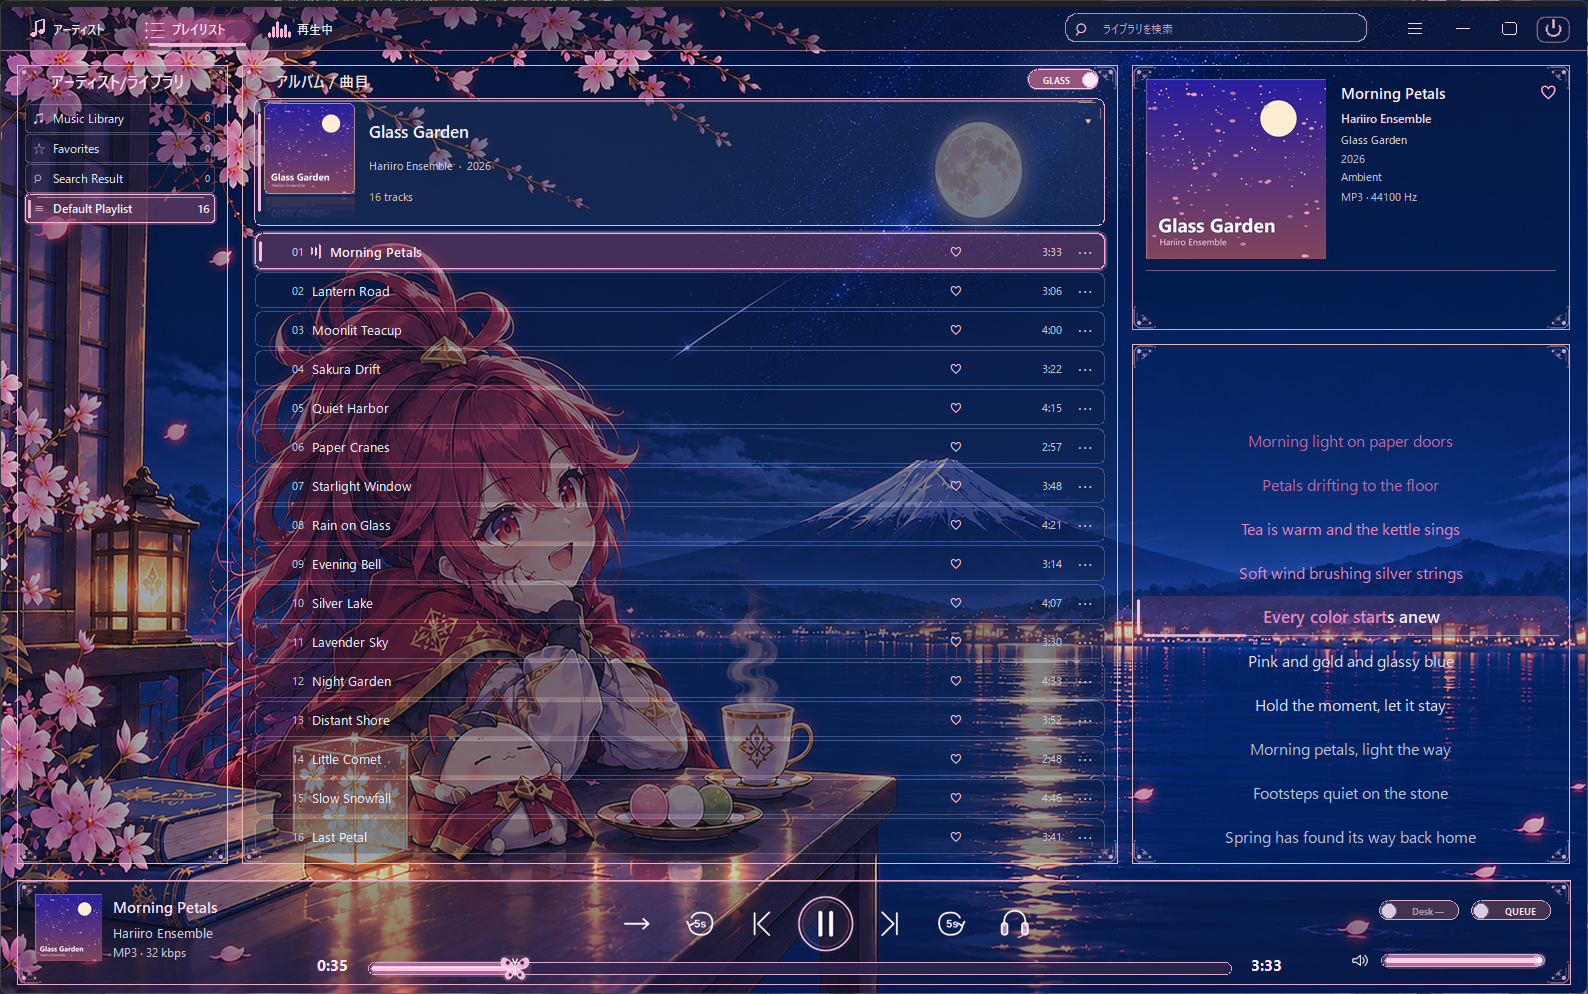
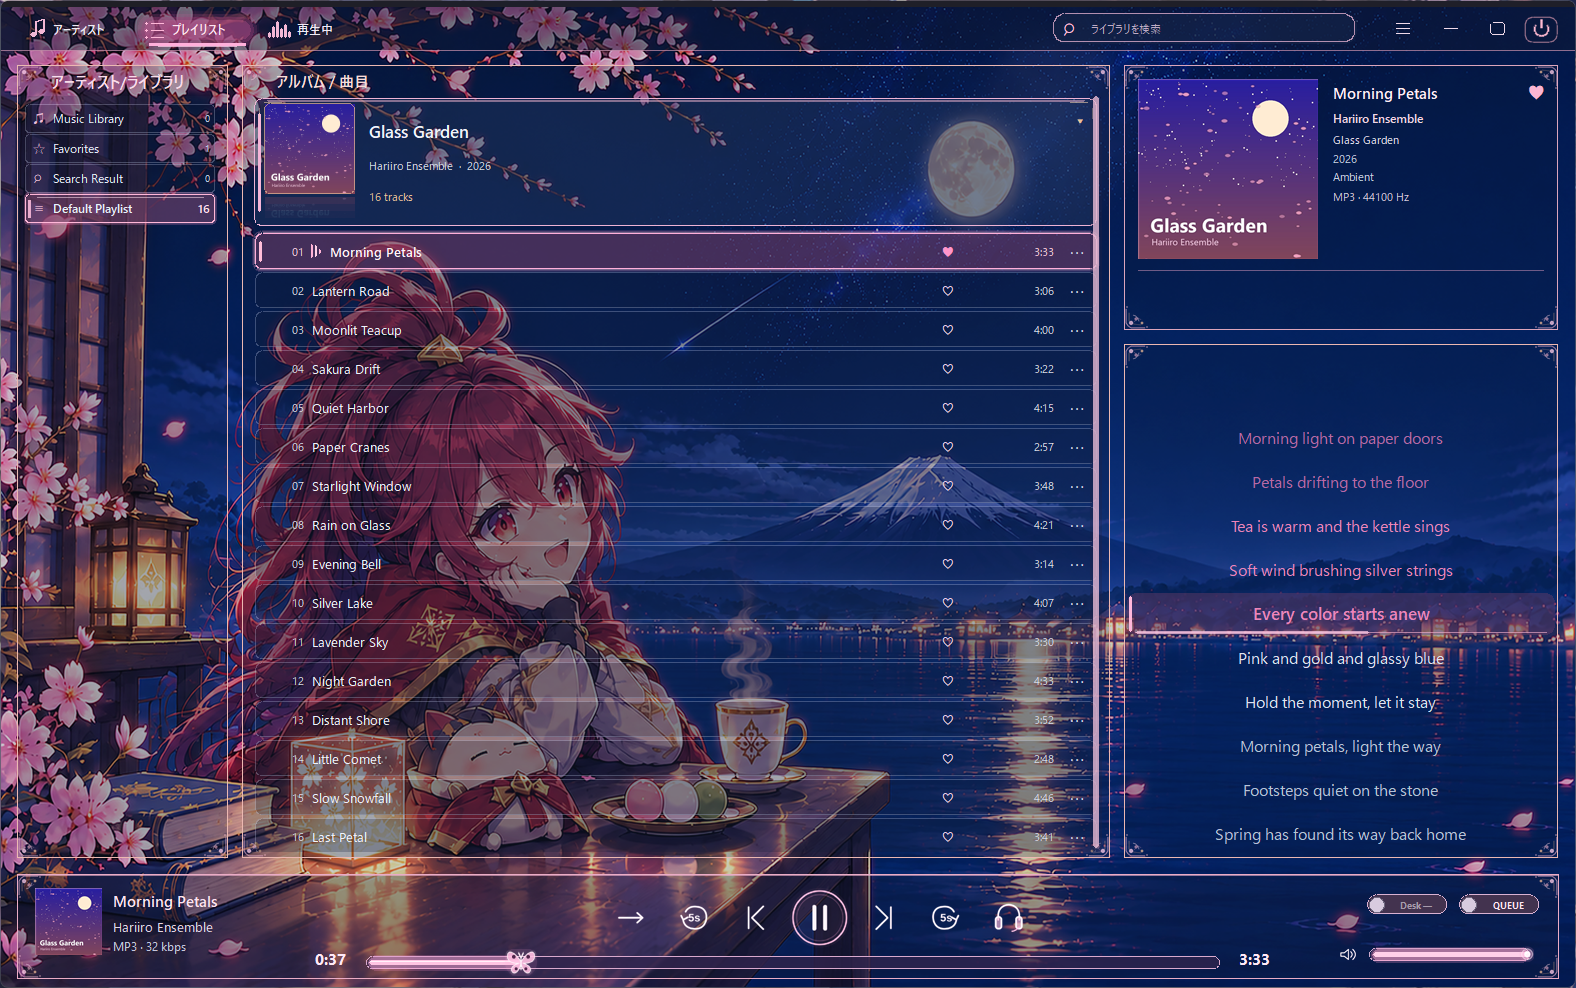
New screenshots: dark now playing, light interface, mini player
The old pictures still showed the removed GLASS / NATIVE switch and only
the dark interface. Same fictional sample album.

diff --git a/README.md b/README.md
@@ -10,8 +10,8 @@ a wallpaper selector (`images/wallpapers/`) with a light or dark interface to ma
 (English, Español, Português, 简体中文, 繁體中文, 日本語, Français, Deutsch, Русский). New installs start in GLASS mode.
 
 ![Hariiro — now playing, with lyrics](docs/preview/hariiro-glass-now-playing.png)
-![Hariiro — pink accent, night wallpaper](docs/preview/hariiro-glass-pink-night.png)
-![Hariiro — blue accent, sakura wallpaper](docs/preview/hariiro-glass-blue-sakura.png)
+![Hariiro — light interface on a light wallpaper, blue accent](docs/preview/hariiro-light-sakura.png)
+![Hariiro — mini player, light and dark](docs/preview/hariiro-mini-player.png)
 
 Current release: **1.0.1** (2026-11-28): light interface for light wallpapers, mini player, NATIVE view removed. Tested with foobar2000 2.26.3, foo_js_panel 1.9.2 and Panels UI (reborn).
 

diff --git a/README.ja.md b/README.ja.md
@@ -10,8 +10,8 @@
 新規インストールでは GLASS モードで起動します。
 
 ![Hariiro — 再生中（歌詞付き）](docs/preview/hariiro-glass-now-playing.png)
-![Hariiro — ピンク、夜景の壁紙](docs/preview/hariiro-glass-pink-night.png)
-![Hariiro — ブルー、桜の壁紙](docs/preview/hariiro-glass-blue-sakura.png)
+![Hariiro — 明るい壁紙でのライトな画面、ブルー](docs/preview/hariiro-light-sakura.png)
+![Hariiro — ミニプレーヤー（ライト / ダーク）](docs/preview/hariiro-mini-player.png)
 
 現在のバージョン：**1.0.1**（2026-11-28）：明るい壁紙用のライトな画面、ミニプレーヤー、NATIVE 表示の削除。foobar2000 2.26.3、
 foo_js_panel 1.9.2、Panels UI (reborn) 1.27.1 で確認しています。スクリーンショットは架空のサンプル

diff --git a/README.zh-CN.md b/README.zh-CN.md
@@ -9,8 +9,8 @@
 新安装默认使用 GLASS 模式。
 
 ![Hariiro — 正在播放（含歌词）](docs/preview/hariiro-glass-now-playing.png)
-![Hariiro — 粉色主题，夜景壁纸](docs/preview/hariiro-glass-pink-night.png)
-![Hariiro — 蓝色主题，樱花壁纸](docs/preview/hariiro-glass-blue-sakura.png)
+![Hariiro — 浅色壁纸下的浅色界面，蓝色主题](docs/preview/hariiro-light-sakura.png)
+![Hariiro — 迷你播放器（浅色 / 深色）](docs/preview/hariiro-mini-player.png)
 
 当前版本：**1.0.1**（2026-11-28）：浅色壁纸的浅色界面、迷你播放器，移除了 NATIVE 视图。已在 foobar2000 2.26.3、foo_js_panel 1.9.2 和
 Panels UI (reborn) 1.27.1 上测试。效果图使用的是虚构的示例专辑。
